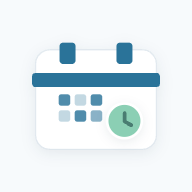
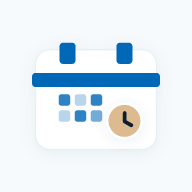
🎨 更新品牌色主题与 PWA 图标资源
统一 theme-color 为 #0068B7，新增图标生成脚本与更新后的 SVG/PNG 资源，并定义 Tailwind 品牌色令牌。

diff --git a/scripts/generate-icons.ts b/scripts/generate-icons.ts
@@ -1,0 +1,26 @@
+import { readFileSync, writeFileSync } from 'node:fs';
+import { dirname, resolve } from 'node:path';
+import { fileURLToPath } from 'node:url';
+import { Resvg } from '@resvg/resvg-js';
+
+const root = resolve(dirname(fileURLToPath(import.meta.url)), '..');
+const sourceSvg = resolve(root, 'static/chronos-icon.svg');
+
+const targets = [
+	{ size: 192, output: resolve(root, 'static/pwa-192.png') },
+	{ size: 512, output: resolve(root, 'static/pwa-512.png') }
+] as const;
+
+const svg = readFileSync(sourceSvg, 'utf8');
+
+for (const { size, output } of targets) {
+	const resvg = new Resvg(svg, {
+		fitTo: {
+			mode: 'width',
+			value: size
+		}
+	});
+	const png = resvg.render().asPng();
+	writeFileSync(output, png);
+	console.log(`Wrote ${output} (${size}x${size})`);
+}

diff --git a/src/routes/layout.css b/src/routes/layout.css
@@ -2,3 +2,15 @@
 @import 'swiper/css';
 @plugin '@tailwindcss/forms';
 @plugin '@tailwindcss/typography';
+
+@theme {
+	--color-brand: #0068b7;
+	--color-brand-hover: #00589c;
+	--color-brand-muted: #d9e8f4;
+	--color-soft-blue: #9fc1f9;
+	--color-gold: #ddba8f;
+	--color-ink: #0b1f33;
+	--color-canvas: #f7fafc;
+	--color-border: #d7e2ea;
+	--color-danger: #e60012;
+}

diff --git a/src/app.html b/src/app.html
@@ -5,7 +5,7 @@
 		<meta charset="utf-8" />
 
 		<meta name="viewport" content="width=device-width, initial-scale=1" />
-		<meta name="theme-color" content="#055088" />
+		<meta name="theme-color" content="#0068B7" />
 
 		<meta name="text-scale" content="scale" />
 		%sveltekit.head%

diff --git a/vite.config.ts b/vite.config.ts
@@ -256,7 +256,7 @@ export default defineConfig({
 				name: 'Chronos',
 				short_name: 'Chronos',
 				description: '课程表应用',
-				theme_color: '#055088',
+				theme_color: '#0068B7',
 				background_color: '#F7FAFC',
 				display: 'standalone',
 				start_url: '/',
